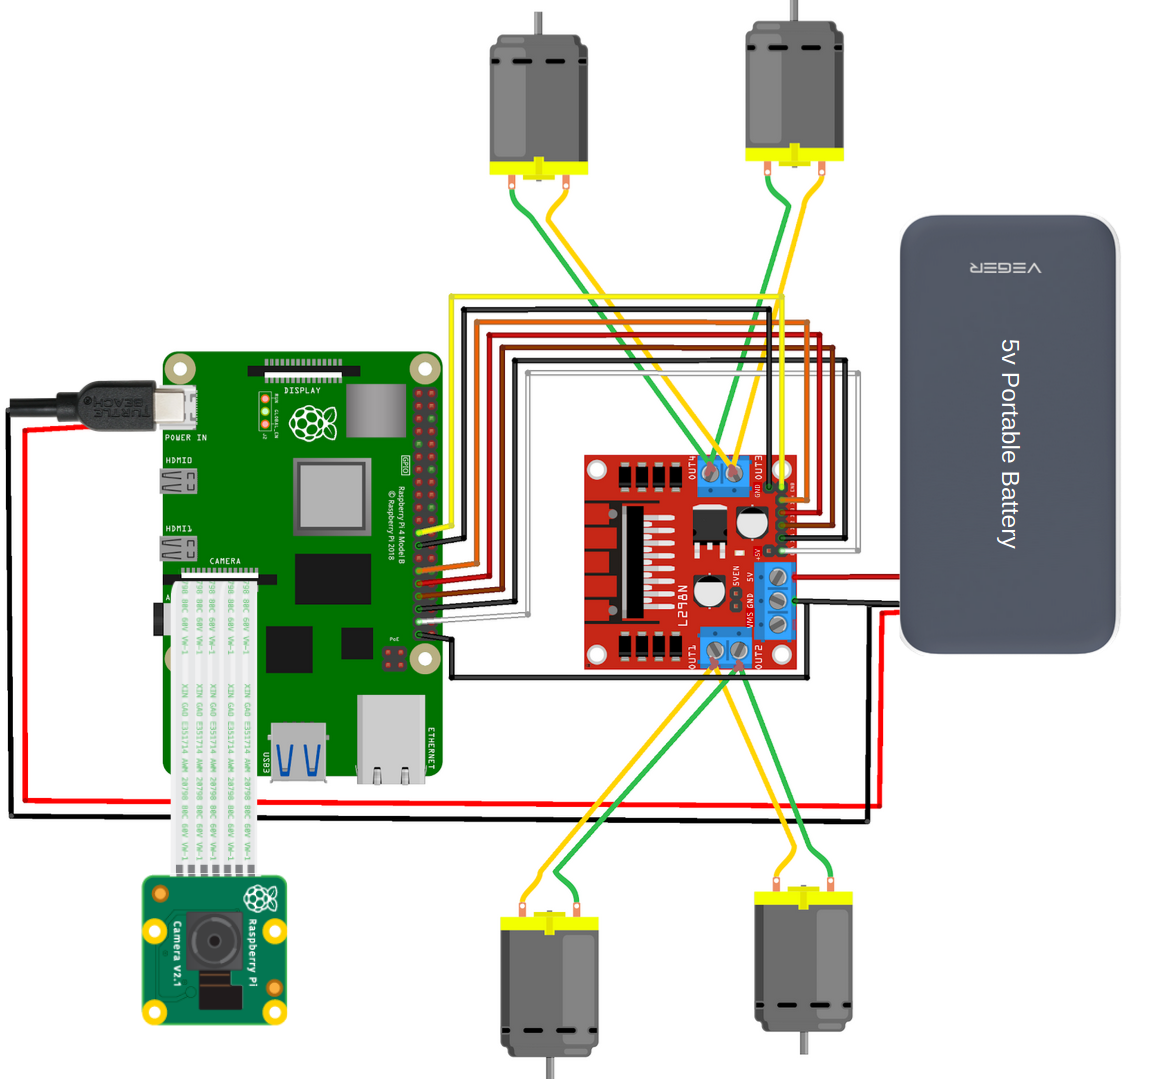
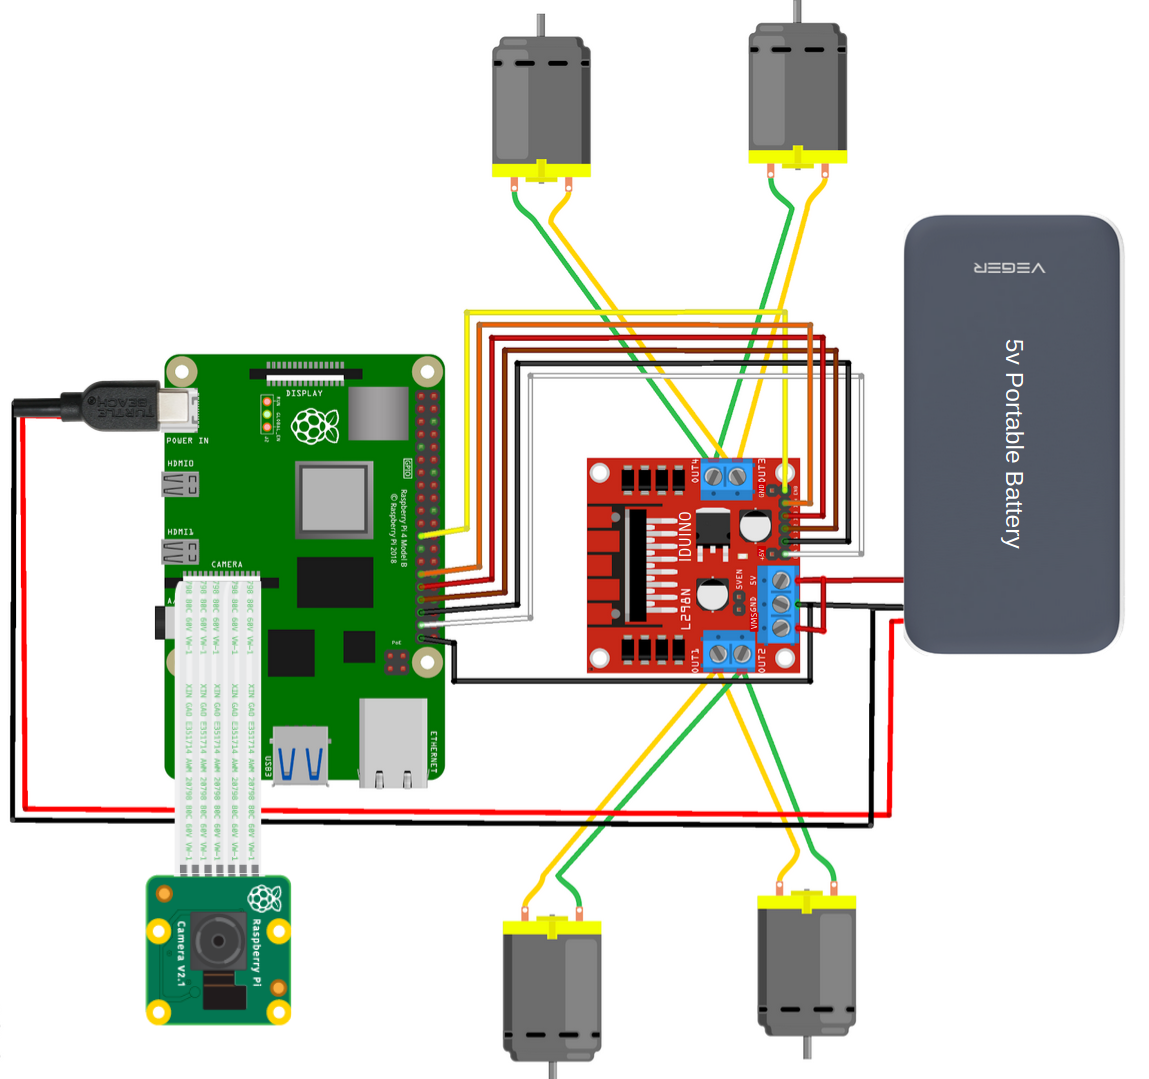
improved docs

diff --git a/README.md b/README.md
@@ -16,3 +16,8 @@
 | Iduino L298N Motor Controller Module |
 | Generic Plastic Wheels               |    
 | Pi Camera v2.1                       |
+
+## Pictures and Schematic
+
+[Gallery](docs/Gallery.md)
+To see the robot in action, click here:

diff --git a/docs/Gallery.md b/docs/Gallery.md
@@ -1,0 +1,6 @@
+# Gallery
+
+## Schematic
+![schematic](schematic.png)
+
+## Robot buggy
